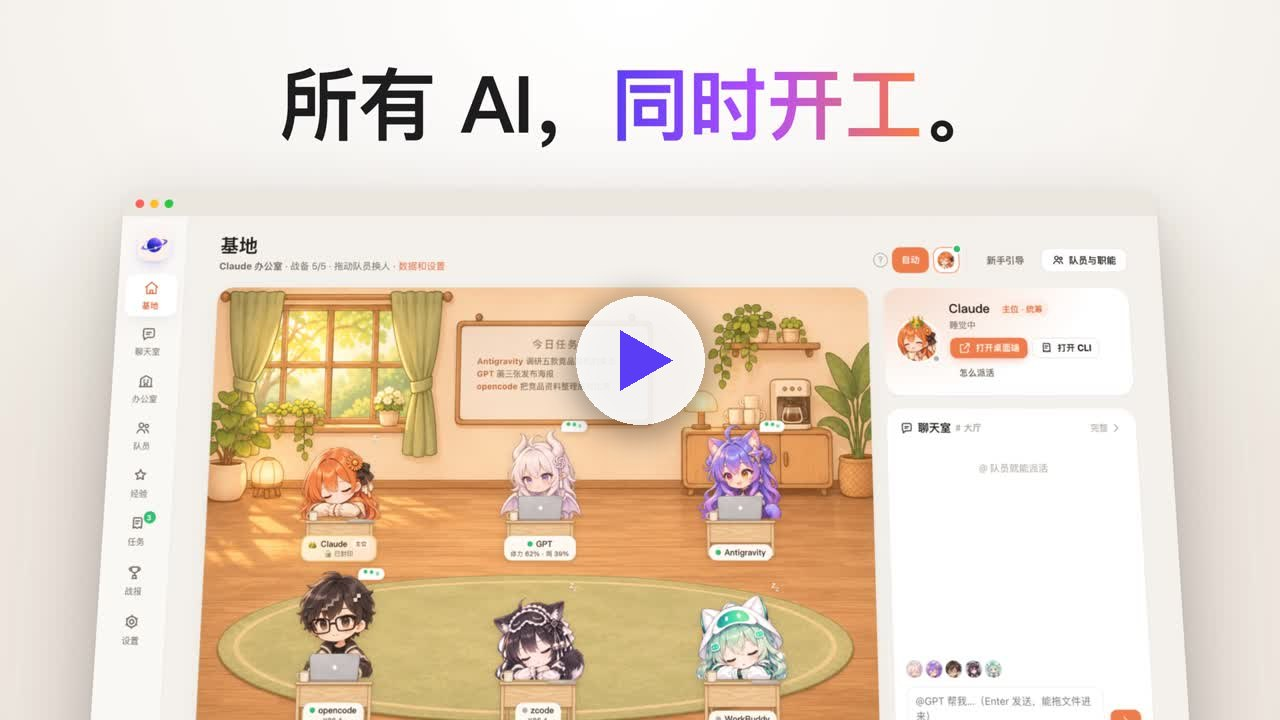
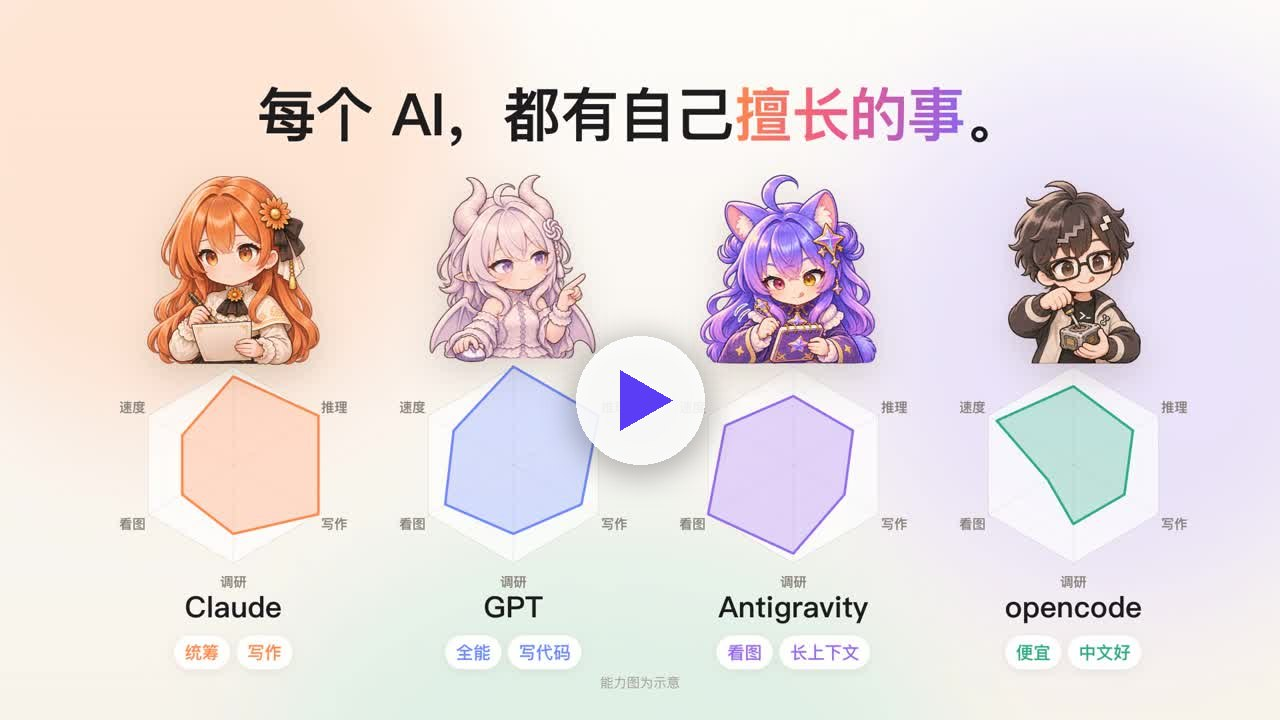
产品发布视频换成浅色发布会版 / Swap the launch video

diff --git a/README.zh-CN.md b/README.zh-CN.md
@@ -15,7 +15,7 @@ agentbus 把你电脑上已经装好的 agent —— Claude Code、Codex、Antig
 
 <table><tr>
 <td align="center" width="33%"><a href="https://github.com/baitongren166-hub/agentbus/releases/download/v0.6.0/agentbus-concept.mp4"><img src="docs/videos/concept.jpg" alt="概念片"></a><br><b>概念片</b><br><sub>如果，它们本该是一支团队？· 1:32</sub></td>
-<td align="center" width="33%"><a href="https://github.com/baitongren166-hub/agentbus/releases/download/v0.6.0/agentbus-launch.mp4"><img src="docs/videos/launch.jpg" alt="产品发布视频"></a><br><b>产品发布视频</b><br><sub>它能做的事 · 1:06</sub></td>
+<td align="center" width="33%"><a href="https://github.com/baitongren166-hub/agentbus/releases/download/v0.6.0/agentbus-launch.mp4"><img src="docs/videos/launch.jpg" alt="产品发布视频"></a><br><b>产品发布视频</b><br><sub>各有所长，组成一支队伍 · 0:58</sub></td>
 <td align="center" width="33%"><a href="https://github.com/baitongren166-hub/agentbus/releases/download/v0.6.0/agentbus-demo.mp4"><img src="docs/videos/demo.jpg" alt="操作演示"></a><br><b>操作演示</b><br><sub>真实界面，一步步来 · 1:48</sub></td>
 </tr></table>
 

diff --git a/README.md b/README.md
@@ -15,7 +15,7 @@ agentbus turns the agents already on your computer — Claude Code, Codex, Antig
 
 <table><tr>
 <td align="center" width="33%"><a href="https://github.com/baitongren166-hub/agentbus/releases/download/v0.6.0/agentbus-concept.mp4"><img src="docs/videos/concept.jpg" alt="Concept film"></a><br><b>Concept film</b><br><sub>What if they were a team? · 1:32</sub></td>
-<td align="center" width="33%"><a href="https://github.com/baitongren166-hub/agentbus/releases/download/v0.6.0/agentbus-launch.mp4"><img src="docs/videos/launch.jpg" alt="Launch video"></a><br><b>Launch video</b><br><sub>Everything it does · 1:06</sub></td>
+<td align="center" width="33%"><a href="https://github.com/baitongren166-hub/agentbus/releases/download/v0.6.0/agentbus-launch.mp4"><img src="docs/videos/launch.jpg" alt="Launch video"></a><br><b>Launch video</b><br><sub>Each one is good at something · 0:58</sub></td>
 <td align="center" width="33%"><a href="https://github.com/baitongren166-hub/agentbus/releases/download/v0.6.0/agentbus-demo.mp4"><img src="docs/videos/demo.jpg" alt="Walkthrough"></a><br><b>Walkthrough</b><br><sub>Real UI, step by step · 1:48</sub></td>
 </tr></table>
 
